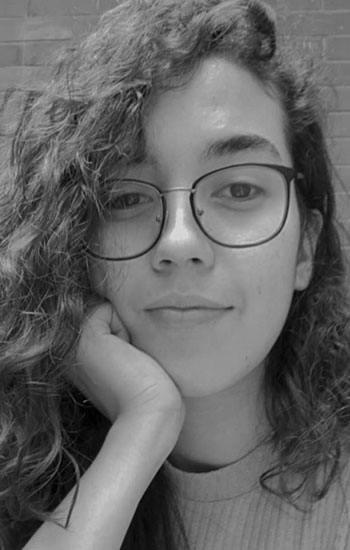
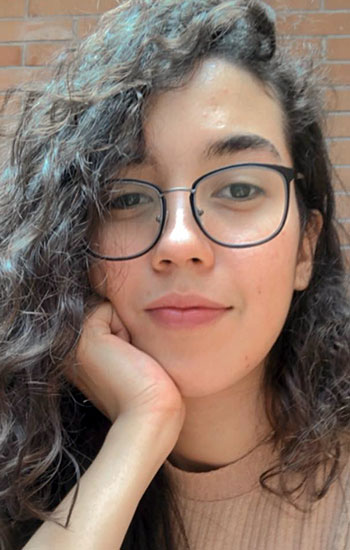
cambios responvio teams, cambio fotos teams, detalles slider proyectos

diff --git a/index.html b/index.html
@@ -522,7 +522,8 @@
             </div>
             <div>
               <h3>Proyecto Nacional Estratégico de Conacyt (PRONACE)</h3>
-              <p>2020- Actualidad con Colegio de
+              <p>2020- A la fecha </p>
+              <p>En conjunto con el Colegio de
                 la frontera sur (ECOSUR) sede Chetumal</p>
             </div>
           </div>
@@ -549,7 +550,8 @@
             </div>
             <div>
               <h3>Proyecto Nacional de Investigación e Incidencia (PRONAII)</h3>
-              <p>2021-2024 con Laboratorio de Innovación económica y Social (LAINES) de la Ibero Puebla</p>
+              <p>2021-2024</p>
+              <p>En conjunto con Laboratorio de Innovación económica y Social (LAINES) de la Ibero Puebla</p>
             </div>
           </div>
           <div class="bottom">
@@ -804,9 +806,11 @@
             <div class="show">
               <div>
                 <h3>Profesión</h3>
-                <p>Lorem ipsum</p>
+                <p>PHD Economía Política del Desarrollo. Maestría en Estudios Regionales en Desarrollo y Medio Ambiente.
+                  SNI I. </p>
                 <h3>Área de expertiz</h3>
-                <p>Lorem ipsum</p>
+                <p>Experta en diseño, gestión y evaluación de proyectos. Economía Social, Agroecología y
+                  Sustentabilidad</p>
               </div>
             </div>
             <div class="mask">
@@ -821,9 +825,9 @@
             <div class="show">
               <div>
                 <h3>Profesión</h3>
-                <p>Lorem ipsum</p>
+                <p> </p>
                 <h3>Área de expertiz</h3>
-                <p>Lorem ipsum</p>
+                <p> </p>
               </div>
             </div>
             <div class="mask">
@@ -838,9 +842,9 @@
             <div class="show">
               <div>
                 <h3>Profesión</h3>
-                <p>Lorem ipsum</p>
+                <p> </p>
                 <h3>Área de expertiz</h3>
-                <p>Lorem ipsum</p>
+                <p> </p>
               </div>
             </div>
             <div class="mask">
@@ -855,9 +859,12 @@
             <div class="show">
               <div>
                 <h3>Profesión</h3>
-                <p>Lorem ipsum</p>
+                <p>Maestrante en desarrollo económico y cooperación internacional e ingeniera en logística.
+                </p>
                 <h3>Área de expertiz</h3>
-                <p>Lorem ipsum</p>
+                <p>Desde
+                  perspectivas antipatriarcales y anticoloniales ha construido y trabajado en proyectos y redes de
+                  economía social-solidaria, agroecológicas y feministas.</p>
               </div>
             </div>
             <div class="mask">
@@ -872,9 +879,9 @@
             <div class="show">
               <div>
                 <h3>Profesión</h3>
-                <p>Lorem ipsum</p>
+                <p> </p>
                 <h3>Área de expertiz</h3>
-                <p>Lorem ipsum</p>
+                <p> </p>
               </div>
             </div>
             <div class="mask">
@@ -889,9 +896,12 @@
             <div class="show">
               <div>
                 <h3>Profesión</h3>
-                <p>Lorem ipsum</p>
+                <p>Bióloga colombiana, maestra en biodiversidad y conservación. Feminista y ambientalista.
+                </p>
                 <h3>Área de expertiz</h3>
-                <p>Lorem ipsum</p>
+                <p>A través de
+                  la danza aérea busca acompañar a las mujeres a recuperar su fuerza y amor por sus cuerpos. Cree en la
+                  agroecología y la restauración de ecosistema como una forma de recuperar el daño generado.</p>
               </div>
             </div>
             <div class="mask">

diff --git a/css/app.css b/css/app.css
@@ -549,6 +549,14 @@ body {
   left: 5.555%;
 }
 
+@media screen and (max-width: 1600px) {
+  .proyectos h2 {
+    position: initial;
+    margin-bottom: 25px;
+    margin-left: 5.55556%;
+  }
+}
+
 .proyectos .container {
   position: absolute;
   top: 20%;
@@ -1100,13 +1108,13 @@ body {
 }
 
 .section-container .team {
-  width: 77.77778%;
+  width: 88.88889%;
   margin: 150px auto 0 auto;
 }
 
-@media screen and (max-width: 850px) {
+@media screen and (max-width: 1200px) {
   .section-container .team {
-    width: 100%;
+    width: 88.88889%;
   }
 }
 
@@ -1129,11 +1137,18 @@ body {
   padding-bottom: 22.22222%;
 }
 
-@media screen and (max-width: 850px) {
+@media screen and (max-width: 1200px) {
   .section-container .team .team-container {
     -ms-grid-columns: (1fr)[2];
         grid-template-columns: repeat(2, 1fr);
     padding: 5.55556%;
+  }
+}
+
+@media screen and (max-width: 850px) {
+  .section-container .team .team-container {
+    -ms-grid-columns: (1fr)[1];
+        grid-template-columns: repeat(1, 1fr);
   }
 }
 
@@ -1153,6 +1168,7 @@ body {
 
 .section-container .team .team-container .person .img-container .show {
   position: absolute;
+  padding: 15px;
   left: 0;
   top: 0;
   opacity: 0;
@@ -1176,6 +1192,7 @@ body {
 .section-container .team .team-container .person .img-container .show h3, .section-container .team .team-container .person .img-container .show p {
   color: #ffffff;
   text-align: center;
+  margin-bottom: 10px;
 }
 
 .section-container .team .team-container .person:hover .show {

diff --git a/css/app.scss b/css/app.scss
@@ -487,6 +487,11 @@ body {
     position: absolute;
     top: 10%;
     left: 5.555%;
+    @media screen and (max-width: $max) {
+      position: initial;
+      margin-bottom: 25px;
+      margin-left:col(1);
+    }
   }
   .container{
     position: absolute;
@@ -859,10 +864,10 @@ body {
   }
 
   .team{
-    width: col(14);
+    width: col(16);
     margin: 150px auto 0 auto;
-    @media screen and (max-width: $md) {
-      width: col(18);
+    @media screen and (max-width: $lg) {
+      width: col(16);
     }
     .texto{
       text-align: center;
@@ -878,9 +883,13 @@ body {
       grid-gap: 50px;
       grid-template-columns: repeat(3, 1fr);
       padding-bottom: col(4);
-      @media screen and (max-width: $md) {
+      @media screen and (max-width: $lg) {
         grid-template-columns: repeat(2, 1fr);
         padding: col(1);
+      }
+      @media screen and (max-width: $md) {
+        grid-template-columns: repeat(1, 1fr);
+
       }
       .person{
         cursor: pointer;
@@ -892,6 +901,7 @@ body {
           position: relative;
           .show{
             position: absolute;
+            padding: 15px;
             left: 0;
             top: 0;
             opacity: 0;
@@ -906,6 +916,10 @@ body {
             h3,p{
               color: $white;
               text-align: center;
+              margin-bottom: 10px;
+            }
+            h3{
+
             }
           }
         }
